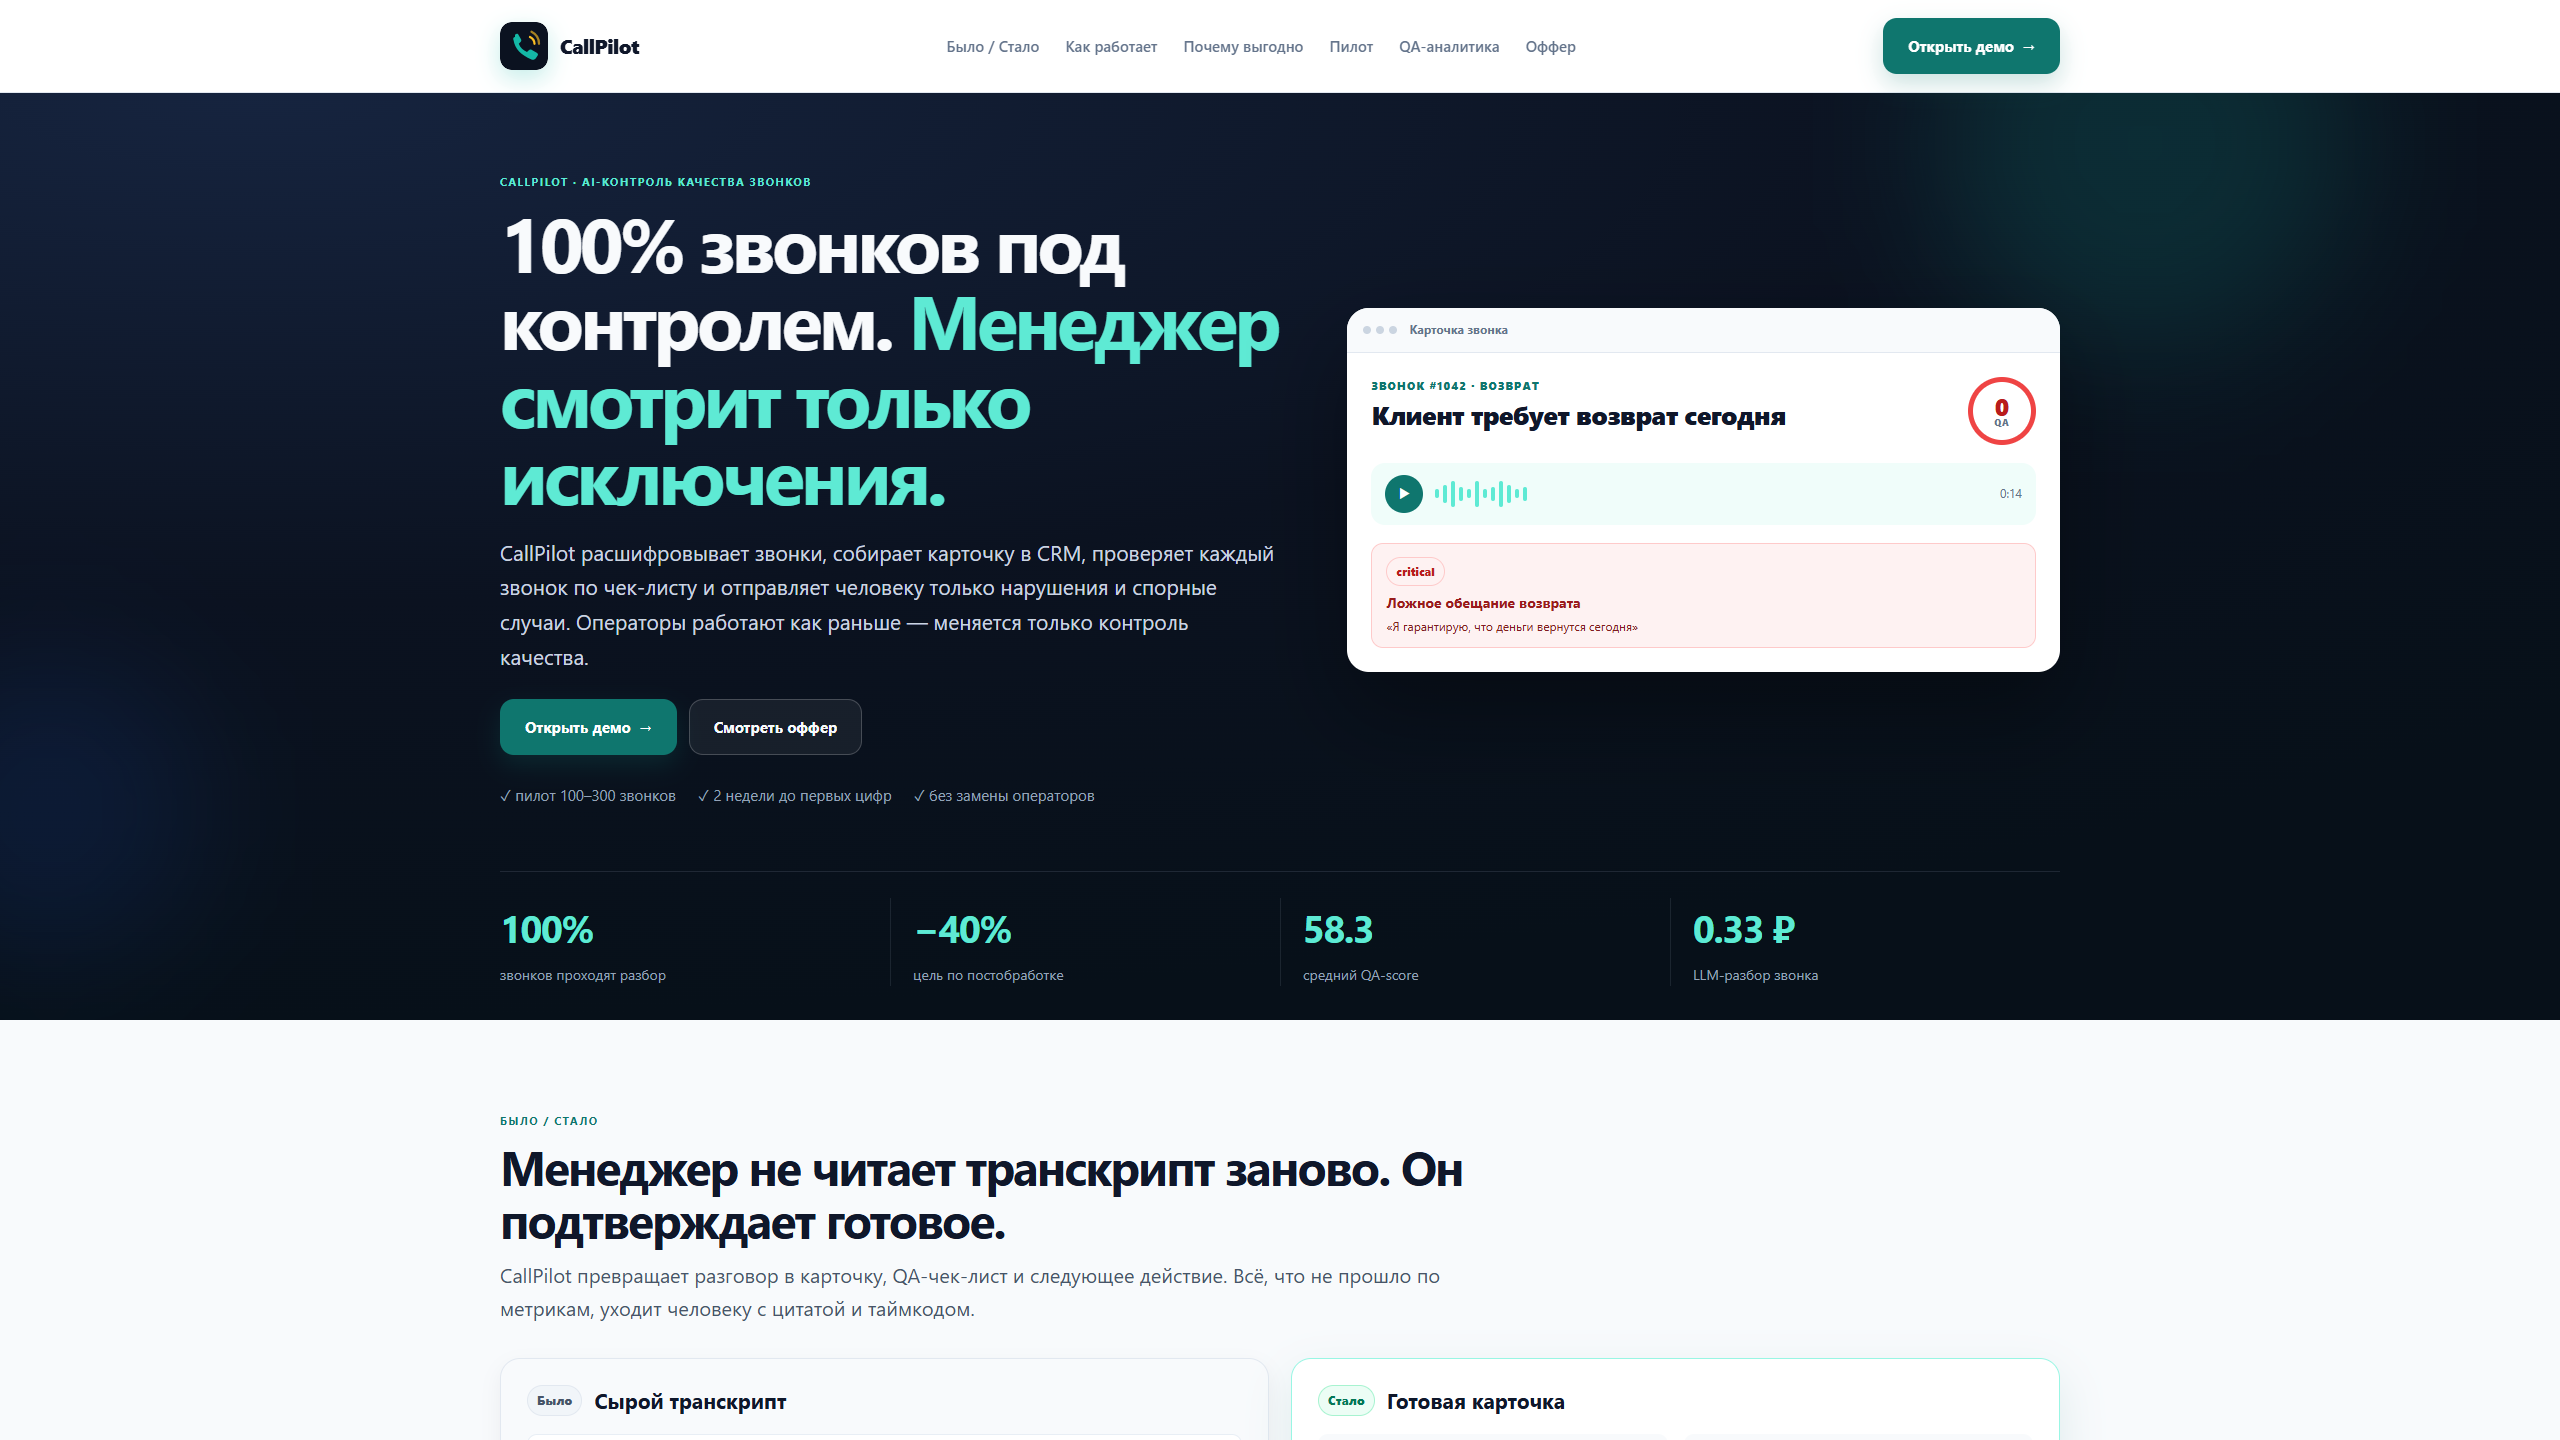
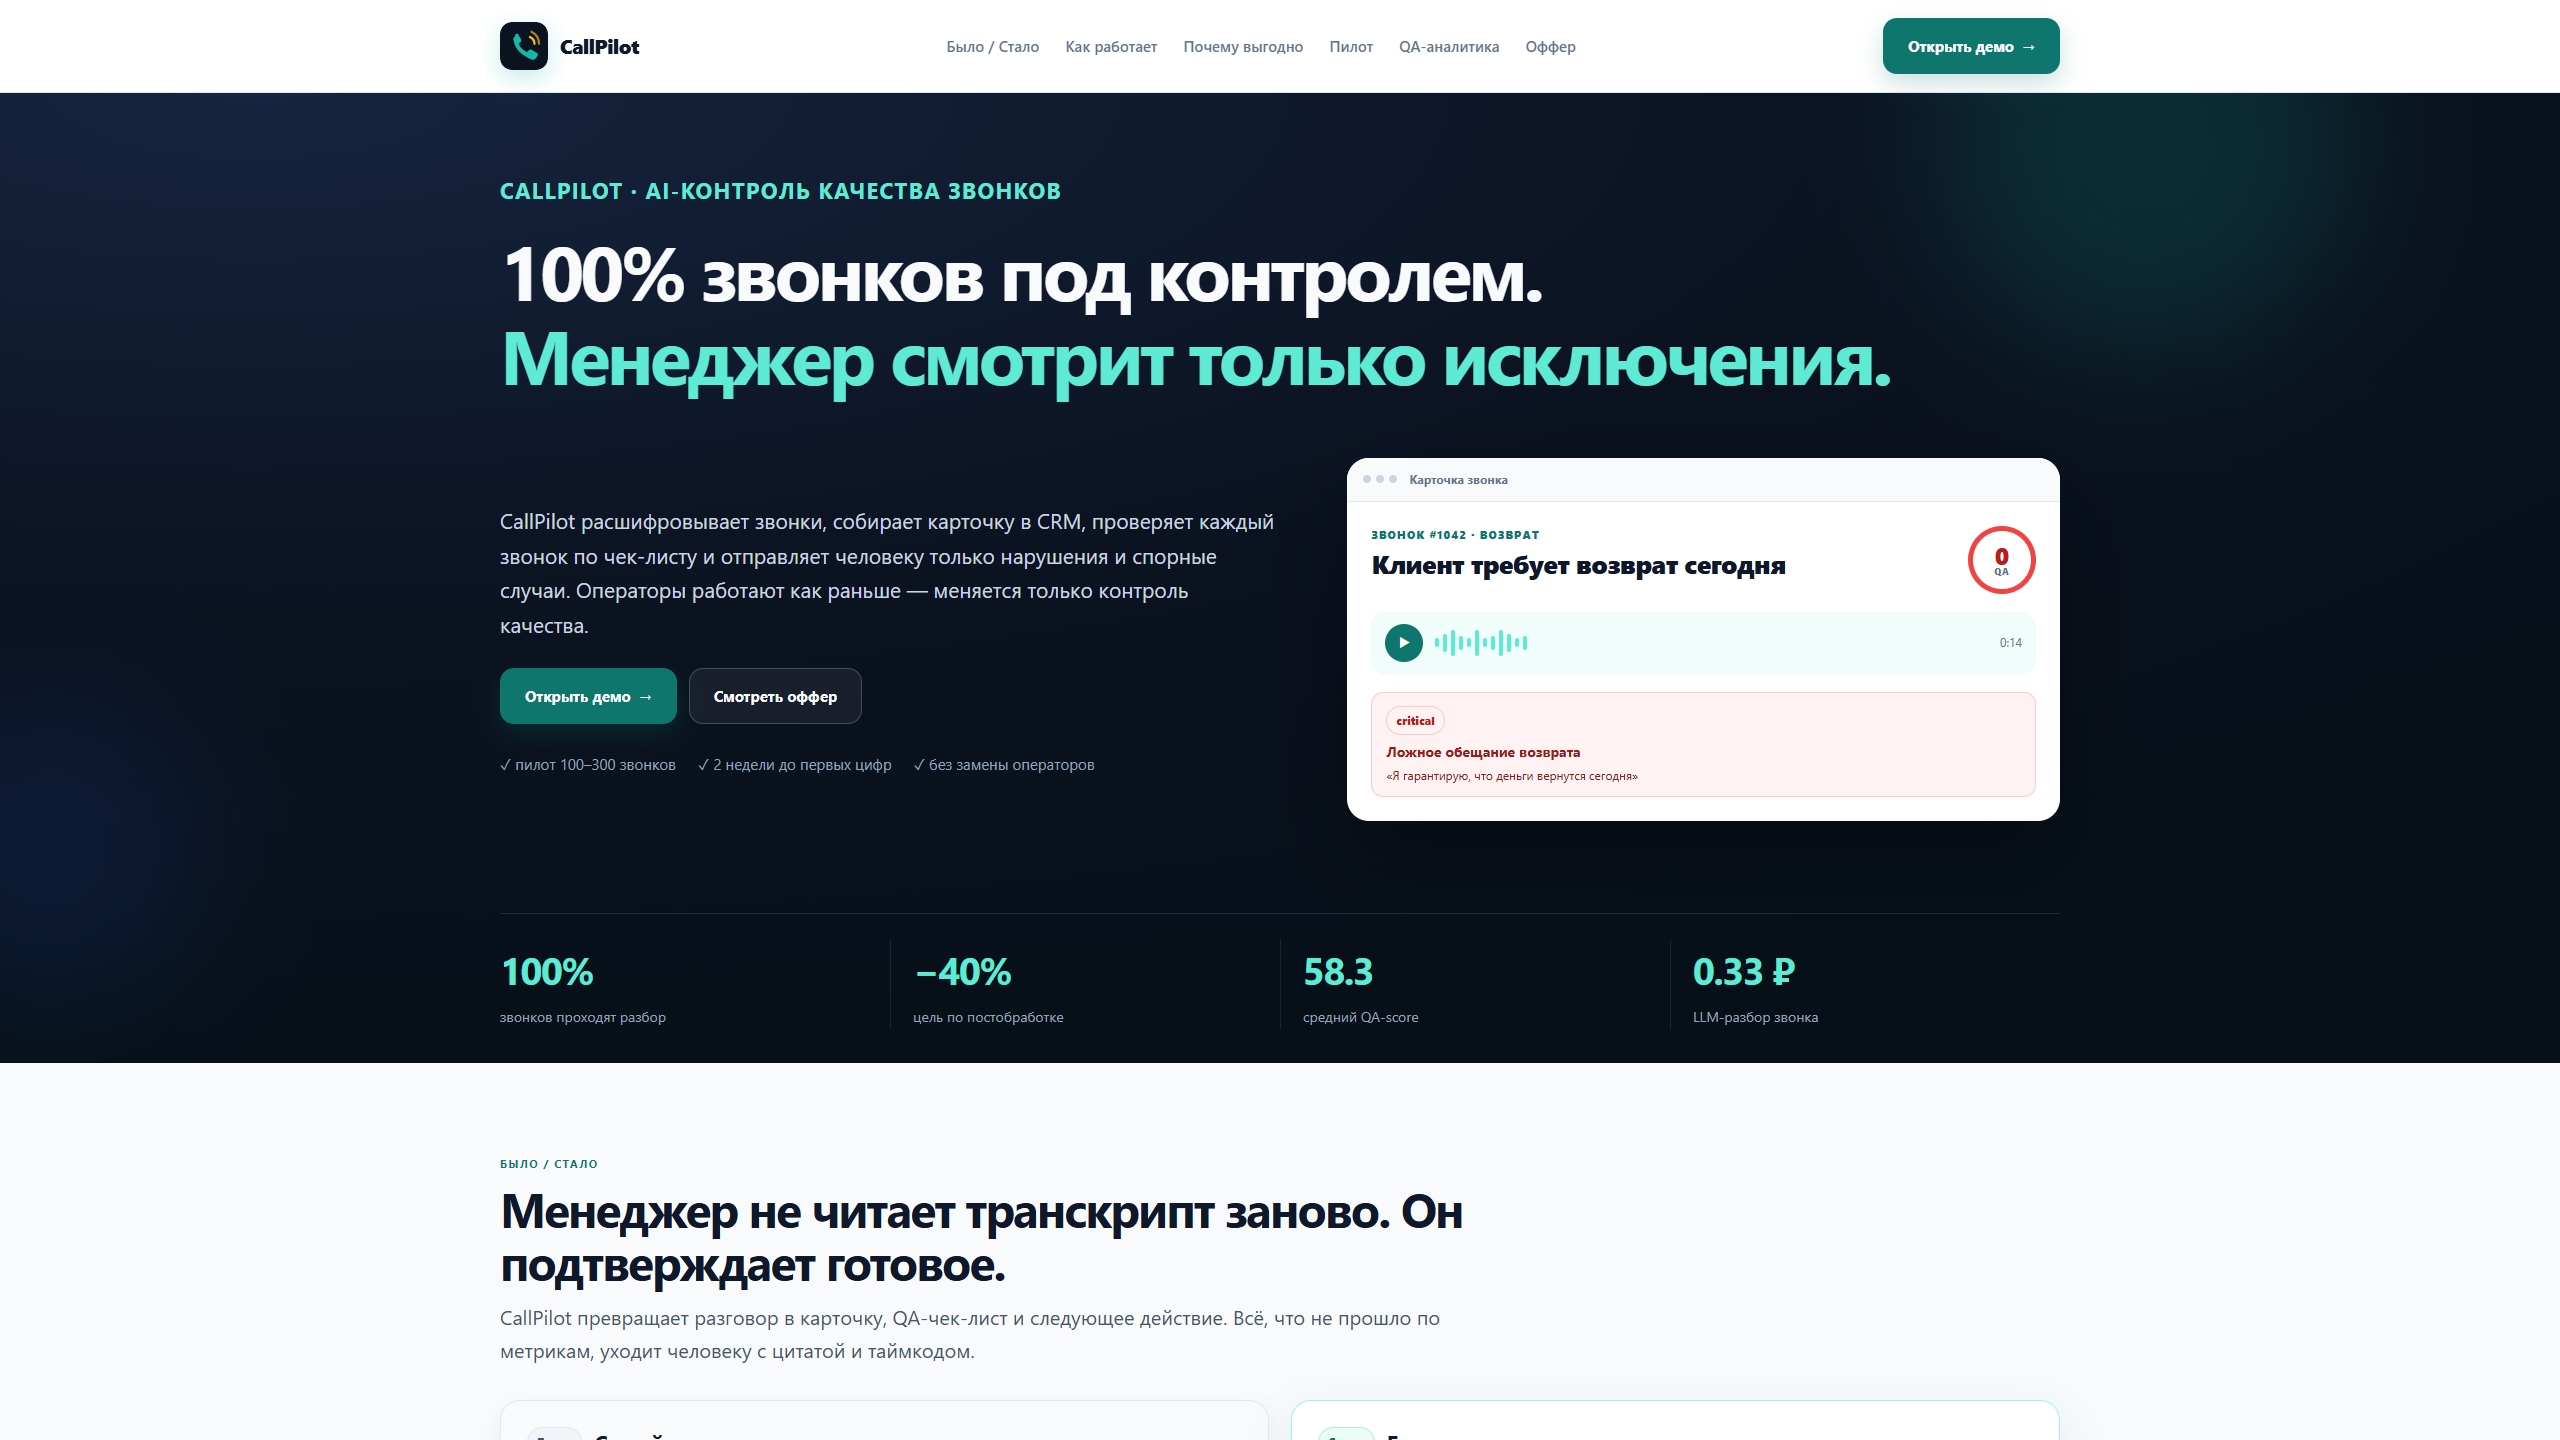
feat: rebalance CallPilot hero heading and eyebrow typography

diff --git a/call-center/static/style.css b/call-center/static/style.css
@@ -346,8 +346,8 @@ textarea { resize: vertical; min-height: 60px; }
 .marketing-nav {
   position: sticky; top: 0; z-index: 20;
   display: flex; align-items: center; justify-content: space-between; gap: 28px;
-  padding: 18px var(--page-pad); background: rgba(255, 255, 255, .94);
-  border-bottom: 1px solid var(--line); backdrop-filter: blur(16px);
+  padding: 18px var(--page-pad); background: #ffffff;
+  border-bottom: 1px solid var(--line);
 }
 .brand-dark { color: var(--ink); }
 .marketing-links { display: flex; gap: 26px; font-size: 15px; font-weight: 600; color: var(--muted); }
@@ -357,9 +357,33 @@ textarea { resize: vertical; min-height: 60px; }
 .hero-glow { position: absolute; border-radius: 50%; filter: blur(70px); opacity: .5; pointer-events: none; }
 .hero-glow-a { width: 420px; height: 420px; background: rgba(20, 184, 166, .32); top: -160px; right: 8%; }
 .hero-glow-b { width: 300px; height: 300px; background: rgba(37, 99, 235, .25); bottom: 60px; left: -100px; }
-.hero-grid { max-width: var(--container); margin: 0 auto; display: grid; grid-template-columns: 1.05fr .95fr; gap: 60px; align-items: center; position: relative; z-index: 1; }
-.hero-copy h1 { font-size: clamp(42px, 4vw, 76px); line-height: 1.02; letter-spacing: -.05em; margin: 12px 0 22px; }
-.hero-copy h1 span { color: #5eead4; }
+.hero-heading { max-width: var(--container); margin: 0 auto; }
+.hero-heading .eyebrow {
+  font-size: clamp(14px, 1.15vw, 22px);
+  letter-spacing: .06em;
+  margin-bottom: 20px;
+  font-weight: 700;
+}
+.hero-heading h1 {
+  font-size: clamp(42px, 4vw, 76px);
+  line-height: 1.1;
+  letter-spacing: -.045em;
+  margin: 0;
+  max-width: 100%;
+  overflow-wrap: break-word;
+  text-wrap: balance;
+}
+.hero-heading h1 span { color: #5eead4; }
+.hero-body {
+  max-width: var(--container);
+  margin: 34px auto 0;
+  display: grid;
+  grid-template-columns: 1.05fr .95fr;
+  gap: 60px;
+  align-items: center;
+  position: relative;
+  z-index: 1;
+}
 .hero-lead { color: #cbd5e1; font-size: clamp(18px, 1.15vw, 21px); line-height: 1.65; max-width: 780px; }
 .hero-cta { display: flex; gap: 12px; flex-wrap: wrap; margin-top: 26px; }
 .btn-ghost-light { background: rgba(255, 255, 255, .06); border-color: rgba(255, 255, 255, .2); color: #f8fafc; }
@@ -540,7 +564,7 @@ textarea { resize: vertical; min-height: 60px; }
 }
 @media (max-width: 1200px) {
   .kpi-grid { grid-template-columns: repeat(3, 1fr); }
-  .hero-grid { gap: 30px; }
+  .hero-body { gap: 30px; }
 }
 @media (max-width: 980px) {
   .app-shell { grid-template-columns: 1fr; }
@@ -550,7 +574,7 @@ textarea { resize: vertical; min-height: 60px; }
   .sidebar-note { display: none; }
   .model-status { border-top: 0; padding-top: 0; }
   .call-layout, .qa-grid, .offer-grid, .ba-grid { grid-template-columns: 1fr; }
-  .hero-grid { grid-template-columns: 1fr; gap: 42px; }
+  .hero-body { grid-template-columns: 1fr; gap: 42px; }
   .hero-visual { min-height: 360px; max-width: 680px; width: 100%; }
   .hero-metrics { grid-template-columns: repeat(2, 1fr); gap: 18px; }
   .steps, .feature-grid, .audience-grid, .offer-steps, .offer-metrics { grid-template-columns: repeat(2, 1fr); }
@@ -563,7 +587,9 @@ textarea { resize: vertical; min-height: 60px; }
   .topbar-actions { justify-content: flex-start; }
   .kpi-grid { grid-template-columns: repeat(2, 1fr); }
   .hero { padding: 48px 16px 0; }
-  .hero-copy h1 { font-size: clamp(36px, 8.5vw, 48px); }
+  .hero-heading .eyebrow { font-size: 14px; letter-spacing: .05em; margin-bottom: 16px; }
+  .hero-heading h1 { font-size: clamp(36px, 8.5vw, 48px); line-height: 1.12; }
+  .hero-body { margin-top: 24px; gap: 28px; }
   .section { width: calc(100% - 32px); padding: 48px 0; }
   .marketing-nav { padding: 12px 16px; }
   .marketing-actions .btn-ghost { display: none; }

diff --git a/call-center/templates/landing.html b/call-center/templates/landing.html
@@ -30,10 +30,13 @@
   <section class="hero">
     <div class="hero-glow hero-glow-a"></div>
     <div class="hero-glow hero-glow-b"></div>
-    <div class="hero-grid">
+    <div class="hero-heading">
+      <div class="eyebrow light">CallPilot · AI-контроль качества звонков</div>
+      <h1>100% звонков под контролем.<br><span>Менеджер смотрит только исключения.</span></h1>
+    </div>
+
+    <div class="hero-body">
       <div class="hero-copy">
-        <div class="eyebrow light">CallPilot · AI-контроль качества звонков</div>
-        <h1>100% звонков под контролем. <span>Менеджер смотрит только исключения.</span></h1>
         <p class="hero-lead">CallPilot расшифровывает звонки, собирает карточку в CRM, проверяет каждый звонок по чек-листу и отправляет человеку только нарушения и спорные случаи. Операторы работают как раньше — меняется только контроль качества.</p>
         <div class="hero-cta">
           <a class="btn btn-primary btn-large" href="/dashboard">Открыть демо <span>→</span></a>

diff --git a/call-center/DESIGN_SYSTEM.md b/call-center/DESIGN_SYSTEM.md
@@ -78,7 +78,8 @@
 
 | Элемент | Размер | Особенности |
 |---|---|---|
-| Hero H1 | `clamp(42px, 4vw, 76px)` | line-height 1.02, letter-spacing -.05em |
+| Hero H1 | `clamp(42px, 4vw, 76px)` | line-height 1.1, letter-spacing -.045em, 2 строки через `<br>` |
+| Hero eyebrow | `clamp(14px, 1.15vw, 22px)` | uppercase, letter-spacing .06em, margin-bottom 20 px |
 | Hero lead | `clamp(18px, 1.15vw, 21px)` | line-height 1.65, максимум 780 px |
 | H2 секций | `clamp(30px, 2.6vw, 48px)` | line-height 1.1, letter-spacing -.04em |
 | Подзаголовок секции | `clamp(18px, 1.05vw, 20px)` | цвет `#475569` |
@@ -115,7 +116,8 @@
 | Контейнер | `min(1560px, 92vw)` |
 | Боковой отступ | `max(24px, calc((100vw - var(--container)) / 2))` |
 | Hero padding | `80px var(--page-pad) 0` |
-| Hero grid | `1.05fr / .95fr`, gap 60 px |
+| Hero heading | full width контейнера, H1 в 2 строки |
+| Hero body | `1.05fr / .95fr`, gap 60 px, margin-top 34 px |
 | Hero metrics | 4 колонки, padding 26 px 0 34 px, margin-top 64 px |
 | Секция | width `var(--container)`, padding `92px 0` |
 | Заголовок секции | max-width 1000 px, margin-bottom 34 px |
@@ -162,7 +164,7 @@
 
 ## 6. Header
 
-- Sticky, фон `rgba(255,255,255,.94)`, `backdrop-filter: blur(16px)`.
+- Sticky, непрозрачный белый фон `#ffffff`. Без `backdrop-filter`: в записи видео через Playwright он может «съедать» SVG-логотип в шапке.
 - Логотип 48 px + текст 20 px.
 - Навигация: 15 px, `--muted`, gap 26 px.
 - Ссылки: «Было / Стало», «Как работает», «Почему выгодно», «Пилот», «QA-аналитика», «Оффер».
@@ -175,11 +177,13 @@
 
 ### Текст
 
-- Eyebrow: `CallPilot · AI-контроль качества звонков`.
-- H1: `100% звонков под контролем. Менеджер смотрит только исключения.`
+- Eyebrow: `CallPilot · AI-контроль качества звонков`, 14–22 px, letter-spacing .06em, margin-bottom 20 px.
+- H1: `100% звонков под контролем.<br>Менеджер смотрит только исключения.` — ровно 2 строки на широких экранах, без обрезки.
 - Лид: расшифровка, карточка в CRM, QA-чек-лист, человеку — только нарушения.
 - CTA: primary «Открыть демо», secondary «Смотреть оффер».
 - Trust-строка: `пилот 100–300 звонков`, `2 недели до первых цифр`, `без замены операторов`.
+
+H1 занимает всю ширину контейнера, а лид/CTA и карточка звонка стоят ниже в две колонки. На мобильном H1 переносится по словам, без `nowrap` и без обрезки.
 
 ### Карточка звонка
 
@@ -267,7 +271,7 @@
 | 1200–1560 | контейнер 92vw |
 | ≤ 1200 px | KPI 3 колонки, hero gap 30 |
 | ≤ 980 px | hero 1 колонка, карточки 2 колонки, «Было / Стало» 1 колонка, навигация скрыта, пилот/футер в колонку |
-| ≤ 720 px | H1 36–48 px, секции `calc(100% - 32px)`, карточки 1 колонка, поля «Было / Стало» 1 колонка, футер в колонку |
+| ≤ 720 px | H1 36–48 px, line-height 1.12, eyebrow 14 px, секции `calc(100% - 32px)`, карточки 1 колонка, поля «Было / Стало» 1 колонка, футер в колонку |
 
 Проверять на:
 
@@ -335,7 +339,7 @@
 
 - Запись: Playwright, 1440×900, 25 fps.
 - Кодек: H.264 + AAC.
-- Длительность: около 2:25 с естественными паузами на знаках препинания.
+- Длительность: около 2:27 с естественными паузами на знаках препинания.
 - Сценарий: hero → dashboard → карточка звонка → цитата → QA-чек-лист → аудит → подтверждение → QA-аналитика → оффер.
 - Файл: `call-center/demo/callpilot-demo.mp4` (не коммитится).
 - Скрипт: `call-center/scripts/record_demo.py`.
